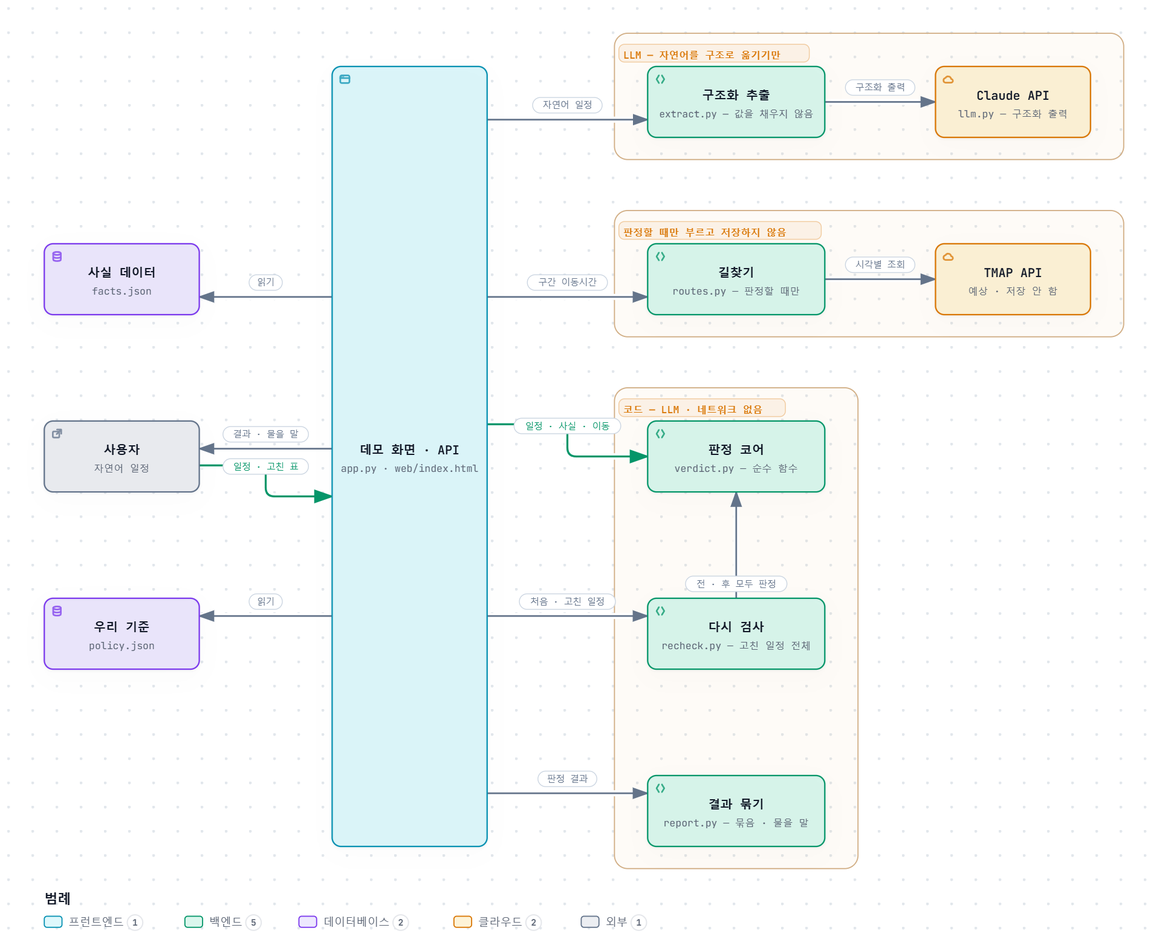
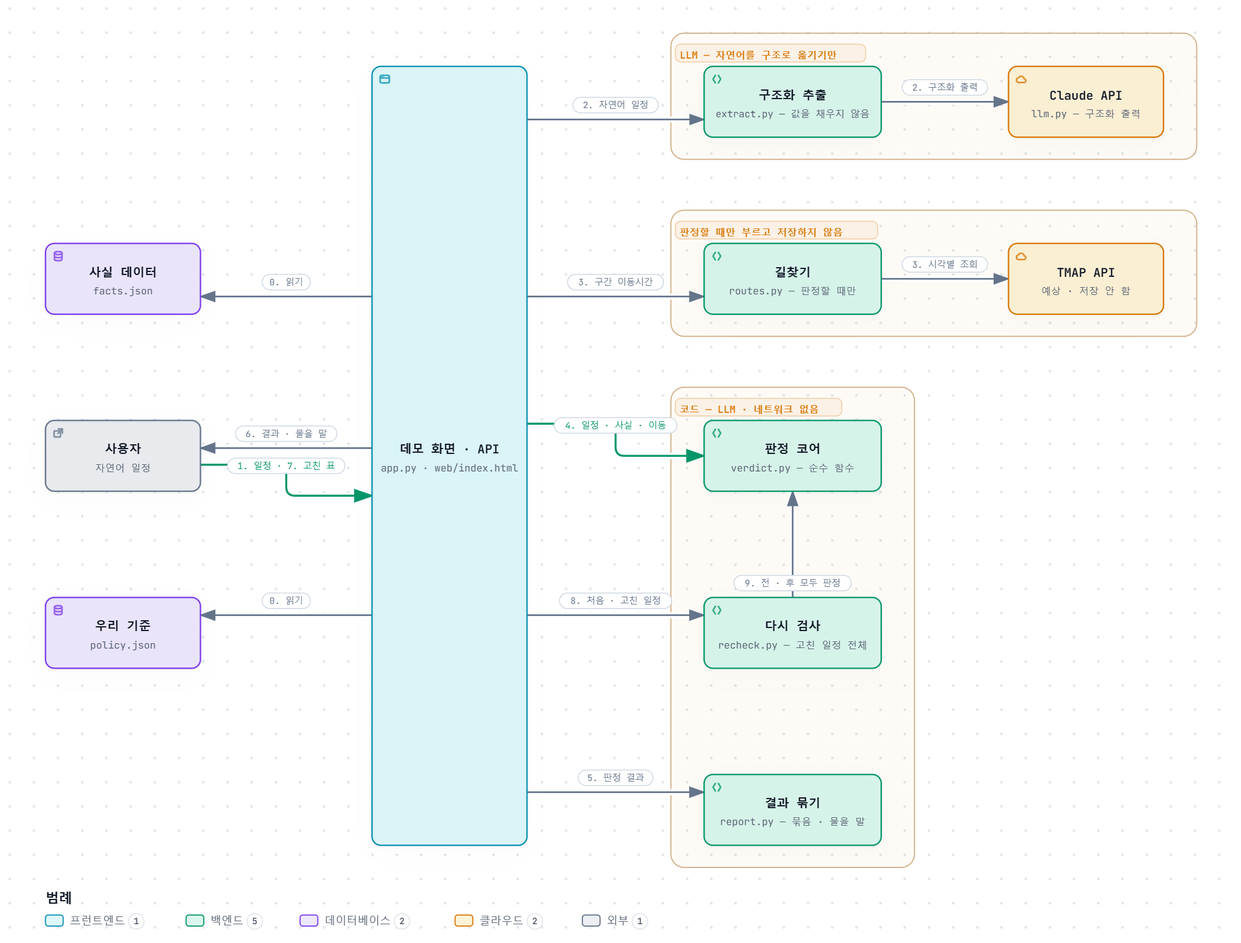
문서 — 구조 다이어그램의 선 이름에 순서 번호를 붙인다
사용자 질문(2026-10-23): "워크플로에 순서 번호는 안 되나?" — archify 아키텍처 다이어그램은 구조를 그리는
종류라 순서가 드러나지 않고, 번호를 자동으로 매기는 칸도 없다. 선 이름 앞에 번호를 붙였다.

- 0 서버를 켤 때 사실 데이터 · 우리 기준 읽기 / 처음 검사 1~6(일정 → 구조화 추출 → 이동시간 → 판정 →
  결과 묶기 → 결과와 물을 말) / 다시 검사 7~9(고친 표 → 처음 · 고친 일정 → 전 · 후 모두 판정).
  같은 단계 안의 선(구조화 추출 → Claude API, 길찾기 → TMAP)은 같은 번호
- 처음엔 ①② 같은 동그라미 숫자를 썼는데 다이어그램 글꼴에 그 글자가 없어 작은 대체 글자로 찍혔다.
  Edge 로 찍어 보고 보통 숫자("1.")로 바꿨다
- 번호가 붙어 길어진 선 이름이 들어가게 칸 사이를 넓혔다. archify 검사 통과
- 설명 카드에 '순서' 를 더했다. README 그림 아래에 번호 읽는 법 한 줄

diff --git a/docs/architecture.html b/docs/architecture.html
@@ -5202,7 +5202,7 @@ OTHER DEALINGS IN THE FONT SOFTWARE.
     <!-- Main Diagram -->
     <div class="diagram-container" data-detail-level="read"
          data-preset-badge-editorial-plate="ARCHIFY / 도판 04">
-      <svg viewBox="0 0 1055 852" role="img" lang="ko" aria-labelledby="archify-diagram-title archify-diagram-description" data-animation="trace" data-preset="classic" data-quality-profile="showcase" data-node-ui="" data-reader-fit="intrinsic-height" data-reader-min-text="7.5" data-reader-primary-text="14">
+      <svg viewBox="0 0 1120 852" role="img" lang="ko" aria-labelledby="archify-diagram-title archify-diagram-description" data-animation="trace" data-preset="classic" data-quality-profile="showcase" data-node-ui="" data-reader-fit="intrinsic-height" data-reader-min-text="7.5" data-reader-primary-text="14">
         <title id="archify-diagram-title">itinerary-verifier 전체 구조</title>
         <desc id="archify-diagram-description">Archify로 생성한 아키텍처 다이어그램입니다.</desc>
         <!-- Definitions -->
@@ -5249,60 +5249,60 @@ OTHER DEALINGS IN THE FONT SOFTWARE.
         <rect width="100%" height="100%" fill="url(#grid)" />
 
         <!-- Boundaries (behind everything) -->
-        <rect data-graph-role="structural-frame" data-composition-frame-kind="region" data-composition-frame-id="0" data-composition-frame-label="LLM — 자연어를 구조로 옮기기만" x="555" y="30" width="460" height="114" rx="12" class="c-region" stroke-width="1"/>
+        <rect data-graph-role="structural-frame" data-composition-frame-kind="region" data-composition-frame-id="0" data-composition-frame-label="LLM — 자연어를 구조로 옮기기만" x="605" y="30" width="475" height="114" rx="12" class="c-region" stroke-width="1"/>
 
-        <rect data-graph-role="structural-frame" data-composition-frame-kind="region" data-composition-frame-id="1" data-composition-frame-label="판정할 때만 부르고 저장하지 않음" x="555" y="190" width="460" height="114" rx="12" class="c-region" stroke-width="1"/>
+        <rect data-graph-role="structural-frame" data-composition-frame-kind="region" data-composition-frame-id="1" data-composition-frame-label="판정할 때만 부르고 저장하지 않음" x="605" y="190" width="475" height="114" rx="12" class="c-region" stroke-width="1"/>
 
-        <rect data-graph-role="structural-frame" data-composition-frame-kind="region" data-composition-frame-id="2" data-composition-frame-label="코드 — LLM · 네트워크 없음" x="555" y="350" width="220" height="434" rx="12" class="c-region" stroke-width="1"/>
+        <rect data-graph-role="structural-frame" data-composition-frame-kind="region" data-composition-frame-id="2" data-composition-frame-label="코드 — LLM · 네트워크 없음" x="605" y="350" width="220" height="434" rx="12" class="c-region" stroke-width="1"/>
 
         <!-- Connection paths (before components for correct z-order) -->
         <g data-graph-role="automatic-crossover" style="--step:0">
-          <path data-graph-role="automatic-crossover-underlay" d="M 180 420.05 L 232 420.05 Q 240 420.05 240 428.05 L 240 440.05 Q 240 448.05 248 448.05 L 300 448.05" fill="none" stroke="var(--mask)" stroke-width="5.8" stroke-linecap="round" stroke-linejoin="round" pointer-events="none"/>
-          <path data-edge-from="user" data-edge-to="app" data-edge-label="일정 · 고친 표" data-edge-key="0" data-edge-id="user-to-app" data-composition-points="180,420.05;240,420.05;240,448.05;300,448.05" data-composition-crossover="halo" data-composition-independent="true" d="M 180 420.05 L 232 420.05 Q 240 420.05 240 428.05 L 240 440.05 Q 240 448.05 248 448.05 L 300 448.05" class="a-emphasis" data-animate="edge" style="--step:0" stroke-width="1.8" marker-end="url(#arrowhead-emphasis)"/>
+          <path data-graph-role="automatic-crossover-underlay" d="M 180 420.05 L 249.5 420.05 Q 257.5 420.05 257.5 428.05 L 257.5 440.05 Q 257.5 448.05 265.5 448.05 L 335 448.05" fill="none" stroke="var(--mask)" stroke-width="5.8" stroke-linecap="round" stroke-linejoin="round" pointer-events="none"/>
+          <path data-edge-from="user" data-edge-to="app" data-edge-label="1. 일정 · 7. 고친 표" data-edge-key="0" data-edge-id="user-to-app" data-composition-points="180,420.05;257.5,420.05;257.5,448.05;335,448.05" data-composition-crossover="halo" data-composition-independent="true" d="M 180 420.05 L 249.5 420.05 Q 257.5 420.05 257.5 428.05 L 257.5 440.05 Q 257.5 448.05 265.5 448.05 L 335 448.05" class="a-emphasis" data-animate="edge" style="--step:0" stroke-width="1.8" marker-end="url(#arrowhead-emphasis)"/>
         </g>
         <g data-graph-role="automatic-crossover" style="--step:1">
-          <path data-graph-role="automatic-crossover-underlay" d="M 300 405 L 180 405" fill="none" stroke="var(--mask)" stroke-width="5.5" stroke-linecap="round" stroke-linejoin="round" pointer-events="none"/>
-          <path data-edge-from="app" data-edge-to="user" data-edge-label="결과 · 물을 말" data-edge-key="1" data-edge-id="app-to-user" data-composition-points="300,405;180,405" data-composition-crossover="halo" data-composition-independent="true" d="M 300 405 L 180 405" class="a-default" data-animate="edge" style="--step:1" stroke-width="1.5" marker-end="url(#arrowhead)"/>
+          <path data-graph-role="automatic-crossover-underlay" d="M 335 405 L 180 405" fill="none" stroke="var(--mask)" stroke-width="5.5" stroke-linecap="round" stroke-linejoin="round" pointer-events="none"/>
+          <path data-edge-from="app" data-edge-to="user" data-edge-label="6. 결과 · 물을 말" data-edge-key="1" data-edge-id="app-to-user" data-composition-points="335,405;180,405" data-composition-crossover="halo" data-composition-independent="true" d="M 335 405 L 180 405" class="a-default" data-animate="edge" style="--step:1" stroke-width="1.5" marker-end="url(#arrowhead)"/>
         </g>
         <g data-graph-role="automatic-crossover" style="--step:2">
-          <path data-graph-role="automatic-crossover-underlay" d="M 300 268 L 180 268" fill="none" stroke="var(--mask)" stroke-width="5.5" stroke-linecap="round" stroke-linejoin="round" pointer-events="none"/>
-          <path data-edge-from="app" data-edge-to="facts" data-edge-label="읽기" data-edge-key="2" data-edge-id="app-reads-facts" data-composition-points="300,268;180,268" data-composition-crossover="halo" data-composition-independent="true" d="M 300 268 L 180 268" class="a-default" data-animate="edge" style="--step:2" stroke-width="1.5" marker-end="url(#arrowhead)"/>
+          <path data-graph-role="automatic-crossover-underlay" d="M 335 268 L 180 268" fill="none" stroke="var(--mask)" stroke-width="5.5" stroke-linecap="round" stroke-linejoin="round" pointer-events="none"/>
+          <path data-edge-from="app" data-edge-to="facts" data-edge-label="0. 읽기" data-edge-key="2" data-edge-id="app-reads-facts" data-composition-points="335,268;180,268" data-composition-crossover="halo" data-composition-independent="true" d="M 335 268 L 180 268" class="a-default" data-animate="edge" style="--step:2" stroke-width="1.5" marker-end="url(#arrowhead)"/>
         </g>
         <g data-graph-role="automatic-crossover" style="--step:3">
-          <path data-graph-role="automatic-crossover-underlay" d="M 300 556 L 180 556" fill="none" stroke="var(--mask)" stroke-width="5.5" stroke-linecap="round" stroke-linejoin="round" pointer-events="none"/>
-          <path data-edge-from="app" data-edge-to="policy" data-edge-label="읽기" data-edge-key="3" data-edge-id="app-reads-policy" data-composition-points="300,556;180,556" data-composition-crossover="halo" data-composition-independent="true" d="M 300 556 L 180 556" class="a-default" data-animate="edge" style="--step:3" stroke-width="1.5" marker-end="url(#arrowhead)"/>
+          <path data-graph-role="automatic-crossover-underlay" d="M 335 556 L 180 556" fill="none" stroke="var(--mask)" stroke-width="5.5" stroke-linecap="round" stroke-linejoin="round" pointer-events="none"/>
+          <path data-edge-from="app" data-edge-to="policy" data-edge-label="0. 읽기" data-edge-key="3" data-edge-id="app-reads-policy" data-composition-points="335,556;180,556" data-composition-crossover="halo" data-composition-independent="true" d="M 335 556 L 180 556" class="a-default" data-animate="edge" style="--step:3" stroke-width="1.5" marker-end="url(#arrowhead)"/>
         </g>
         <g data-graph-role="automatic-crossover" style="--step:4">
-          <path data-graph-role="automatic-crossover-underlay" d="M 440 108 L 585 108" fill="none" stroke="var(--mask)" stroke-width="5.5" stroke-linecap="round" stroke-linejoin="round" pointer-events="none"/>
-          <path data-edge-from="app" data-edge-to="extract" data-edge-label="자연어 일정" data-edge-key="4" data-edge-id="app-to-extract" data-composition-points="440,108;585,108" data-composition-crossover="halo" data-composition-independent="true" d="M 440 108 L 585 108" class="a-default" data-animate="edge" style="--step:4" stroke-width="1.5" marker-end="url(#arrowhead)"/>
+          <path data-graph-role="automatic-crossover-underlay" d="M 475 108 L 635 108" fill="none" stroke="var(--mask)" stroke-width="5.5" stroke-linecap="round" stroke-linejoin="round" pointer-events="none"/>
+          <path data-edge-from="app" data-edge-to="extract" data-edge-label="2. 자연어 일정" data-edge-key="4" data-edge-id="app-to-extract" data-composition-points="475,108;635,108" data-composition-crossover="halo" data-composition-independent="true" d="M 475 108 L 635 108" class="a-default" data-animate="edge" style="--step:4" stroke-width="1.5" marker-end="url(#arrowhead)"/>
         </g>
         <g data-graph-role="automatic-crossover" style="--step:5">
-          <path data-graph-role="automatic-crossover-underlay" d="M 745 92 L 845 92" fill="none" stroke="var(--mask)" stroke-width="5.5" stroke-linecap="round" stroke-linejoin="round" pointer-events="none"/>
-          <path data-edge-from="extract" data-edge-to="claude" data-edge-label="구조화 출력" data-edge-key="5" data-edge-id="extract-to-claude" data-composition-points="745,92;845,92" data-composition-crossover="halo" data-composition-independent="true" d="M 745 92 L 845 92" class="a-default" data-animate="edge" style="--step:5" stroke-width="1.5" marker-end="url(#arrowhead)"/>
+          <path data-graph-role="automatic-crossover-underlay" d="M 795 92 L 910 92" fill="none" stroke="var(--mask)" stroke-width="5.5" stroke-linecap="round" stroke-linejoin="round" pointer-events="none"/>
+          <path data-edge-from="extract" data-edge-to="claude" data-edge-label="2. 구조화 출력" data-edge-key="5" data-edge-id="extract-to-claude" data-composition-points="795,92;910,92" data-composition-crossover="halo" data-composition-independent="true" d="M 795 92 L 910 92" class="a-default" data-animate="edge" style="--step:5" stroke-width="1.5" marker-end="url(#arrowhead)"/>
         </g>
         <g data-graph-role="automatic-crossover" style="--step:6">
-          <path data-graph-role="automatic-crossover-underlay" d="M 440 268 L 585 268" fill="none" stroke="var(--mask)" stroke-width="5.5" stroke-linecap="round" stroke-linejoin="round" pointer-events="none"/>
-          <path data-edge-from="app" data-edge-to="routes" data-edge-label="구간 이동시간" data-edge-key="6" data-edge-id="app-to-routes" data-composition-points="440,268;585,268" data-composition-crossover="halo" data-composition-independent="true" d="M 440 268 L 585 268" class="a-default" data-animate="edge" style="--step:6" stroke-width="1.5" marker-end="url(#arrowhead)"/>
+          <path data-graph-role="automatic-crossover-underlay" d="M 475 268 L 635 268" fill="none" stroke="var(--mask)" stroke-width="5.5" stroke-linecap="round" stroke-linejoin="round" pointer-events="none"/>
+          <path data-edge-from="app" data-edge-to="routes" data-edge-label="3. 구간 이동시간" data-edge-key="6" data-edge-id="app-to-routes" data-composition-points="475,268;635,268" data-composition-crossover="halo" data-composition-independent="true" d="M 475 268 L 635 268" class="a-default" data-animate="edge" style="--step:6" stroke-width="1.5" marker-end="url(#arrowhead)"/>
         </g>
         <g data-graph-role="automatic-crossover" style="--step:7">
-          <path data-graph-role="automatic-crossover-underlay" d="M 745 252 L 845 252" fill="none" stroke="var(--mask)" stroke-width="5.5" stroke-linecap="round" stroke-linejoin="round" pointer-events="none"/>
-          <path data-edge-from="routes" data-edge-to="tmap" data-edge-label="시각별 조회" data-edge-key="7" data-edge-id="routes-to-tmap" data-composition-points="745,252;845,252" data-composition-crossover="halo" data-composition-independent="true" d="M 745 252 L 845 252" class="a-default" data-animate="edge" style="--step:7" stroke-width="1.5" marker-end="url(#arrowhead)"/>
+          <path data-graph-role="automatic-crossover-underlay" d="M 795 252 L 910 252" fill="none" stroke="var(--mask)" stroke-width="5.5" stroke-linecap="round" stroke-linejoin="round" pointer-events="none"/>
+          <path data-edge-from="routes" data-edge-to="tmap" data-edge-label="3. 시각별 조회" data-edge-key="7" data-edge-id="routes-to-tmap" data-composition-points="795,252;910,252" data-composition-crossover="halo" data-composition-independent="true" d="M 795 252 L 910 252" class="a-default" data-animate="edge" style="--step:7" stroke-width="1.5" marker-end="url(#arrowhead)"/>
         </g>
         <g data-graph-role="automatic-crossover" style="--step:8">
-          <path data-graph-role="automatic-crossover-underlay" d="M 440 382.95 L 504.5 382.95 Q 512.5 382.95 512.5 390.95 L 512.5 404 Q 512.5 412 520.5 412 L 585 412" fill="none" stroke="var(--mask)" stroke-width="5.8" stroke-linecap="round" stroke-linejoin="round" pointer-events="none"/>
-          <path data-edge-from="app" data-edge-to="verdict" data-edge-label="일정 · 사실 · 이동" data-edge-key="8" data-edge-id="app-to-verdict" data-composition-points="440,382.95;512.5,382.95;512.5,412;585,412" data-composition-crossover="halo" data-composition-independent="true" d="M 440 382.95 L 504.5 382.95 Q 512.5 382.95 512.5 390.95 L 512.5 404 Q 512.5 412 520.5 412 L 585 412" class="a-emphasis" data-animate="edge" style="--step:8" stroke-width="1.8" marker-end="url(#arrowhead-emphasis)"/>
+          <path data-graph-role="automatic-crossover-underlay" d="M 475 382.95 L 547 382.95 Q 555 382.95 555 390.95 L 555 404 Q 555 412 563 412 L 635 412" fill="none" stroke="var(--mask)" stroke-width="5.8" stroke-linecap="round" stroke-linejoin="round" pointer-events="none"/>
+          <path data-edge-from="app" data-edge-to="verdict" data-edge-label="4. 일정 · 사실 · 이동" data-edge-key="8" data-edge-id="app-to-verdict" data-composition-points="475,382.95;555,382.95;555,412;635,412" data-composition-crossover="halo" data-composition-independent="true" d="M 475 382.95 L 547 382.95 Q 555 382.95 555 390.95 L 555 404 Q 555 412 563 412 L 635 412" class="a-emphasis" data-animate="edge" style="--step:8" stroke-width="1.8" marker-end="url(#arrowhead-emphasis)"/>
         </g>
         <g data-graph-role="automatic-crossover" style="--step:9">
-          <path data-graph-role="automatic-crossover-underlay" d="M 440 556 L 585 556" fill="none" stroke="var(--mask)" stroke-width="5.5" stroke-linecap="round" stroke-linejoin="round" pointer-events="none"/>
-          <path data-edge-from="app" data-edge-to="recheck" data-edge-label="처음 · 고친 일정" data-edge-key="9" data-edge-id="app-to-recheck" data-composition-points="440,556;585,556" data-composition-crossover="halo" data-composition-independent="true" d="M 440 556 L 585 556" class="a-default" data-animate="edge" style="--step:9" stroke-width="1.5" marker-end="url(#arrowhead)"/>
+          <path data-graph-role="automatic-crossover-underlay" d="M 475 556 L 635 556" fill="none" stroke="var(--mask)" stroke-width="5.5" stroke-linecap="round" stroke-linejoin="round" pointer-events="none"/>
+          <path data-edge-from="app" data-edge-to="recheck" data-edge-label="8. 처음 · 고친 일정" data-edge-key="9" data-edge-id="app-to-recheck" data-composition-points="475,556;635,556" data-composition-crossover="halo" data-composition-independent="true" d="M 475 556 L 635 556" class="a-default" data-animate="edge" style="--step:9" stroke-width="1.5" marker-end="url(#arrowhead)"/>
         </g>
         <g data-graph-role="automatic-crossover" style="--step:10">
-          <path data-graph-role="automatic-crossover-underlay" d="M 665 540 L 665 444" fill="none" stroke="var(--mask)" stroke-width="5.5" stroke-linecap="round" stroke-linejoin="round" pointer-events="none"/>
-          <path data-edge-from="recheck" data-edge-to="verdict" data-edge-label="전 · 후 모두 판정" data-edge-key="10" data-edge-id="recheck-to-verdict" data-composition-points="665,540;665,444" data-composition-crossover="halo" data-composition-independent="true" d="M 665 540 L 665 444" class="a-default" data-animate="edge" style="--step:10" stroke-width="1.5" marker-end="url(#arrowhead)"/>
+          <path data-graph-role="automatic-crossover-underlay" d="M 715 540 L 715 444" fill="none" stroke="var(--mask)" stroke-width="5.5" stroke-linecap="round" stroke-linejoin="round" pointer-events="none"/>
+          <path data-edge-from="recheck" data-edge-to="verdict" data-edge-label="9. 전 · 후 모두 판정" data-edge-key="10" data-edge-id="recheck-to-verdict" data-composition-points="715,540;715,444" data-composition-crossover="halo" data-composition-independent="true" d="M 715 540 L 715 444" class="a-default" data-animate="edge" style="--step:10" stroke-width="1.5" marker-end="url(#arrowhead)"/>
         </g>
         <g data-graph-role="automatic-crossover" style="--step:11">
-          <path data-graph-role="automatic-crossover-underlay" d="M 440 716 L 585 716" fill="none" stroke="var(--mask)" stroke-width="5.5" stroke-linecap="round" stroke-linejoin="round" pointer-events="none"/>
-          <path data-edge-from="app" data-edge-to="report" data-edge-label="판정 결과" data-edge-key="11" data-edge-id="app-to-report" data-composition-points="440,716;585,716" data-composition-crossover="halo" data-composition-independent="true" d="M 440 716 L 585 716" class="a-default" data-animate="edge" style="--step:11" stroke-width="1.5" marker-end="url(#arrowhead)"/>
+          <path data-graph-role="automatic-crossover-underlay" d="M 475 716 L 635 716" fill="none" stroke="var(--mask)" stroke-width="5.5" stroke-linecap="round" stroke-linejoin="round" pointer-events="none"/>
+          <path data-edge-from="app" data-edge-to="report" data-edge-label="5. 판정 결과" data-edge-key="11" data-edge-id="app-to-report" data-composition-points="475,716;635,716" data-composition-crossover="halo" data-composition-independent="true" d="M 475 716 L 635 716" class="a-default" data-animate="edge" style="--step:11" stroke-width="1.5" marker-end="url(#arrowhead)"/>
         </g>
 
         <!-- Components -->
@@ -5346,160 +5346,160 @@ OTHER DEALINGS IN THE FONT SOFTWARE.
 
         <g id="node-app" data-node-id="app" data-node-label="데모 화면 · API" tabindex="0" role="button" aria-label="데모 화면 · API 포커스, app.py · web/index.html, 아키텍처 구성요소" aria-pressed="false" data-node-kind="frontend" data-node-sublabel="app.py · web/index.html" data-node-tag="FastAPI" data-node-context="아키텍처 구성요소">
           <title>데모 화면 · API · app.py · web/index.html · 아키텍처 구성요소 · FastAPI</title>
-          <rect x="300" y="60" width="140" height="704" rx="8" class="c-mask"/>
-          <rect x="300" y="60" width="140" height="704" rx="8" class="c-frontend" data-animate="node" style="--step:1" stroke-width="1.5"/>
-          <g aria-hidden="true" data-semantic-sigil="frontend" class="semantic-sigil s-frontend" transform="translate(306 66) scale(0.6875)">
+          <rect x="335" y="60" width="140" height="704" rx="8" class="c-mask"/>
+          <rect x="335" y="60" width="140" height="704" rx="8" class="c-frontend" data-animate="node" style="--step:1" stroke-width="1.5"/>
+          <g aria-hidden="true" data-semantic-sigil="frontend" class="semantic-sigil s-frontend" transform="translate(341 66) scale(0.6875)">
             <rect x="2" y="3" width="12" height="10" rx="2"/>
             <path d="M2 6.5h12"/>
             <circle cx="4.1" cy="4.8" r=".7" class="sigil-fill"/>
             <circle cx="6.3" cy="4.8" r=".7" class="sigil-fill"/>
           </g>
-          <text data-node-label="" data-detail-anchor="" x="370" y="410" class="t-primary" font-size="11" font-weight="600" text-anchor="middle">데모 화면 · API</text>
-        <text data-detail="context" x="370" y="426" class="t-muted" font-size="9" text-anchor="middle">app.py · web/index.html</text>
-        <text data-detail="fine" x="370" y="756" class="t-frontend" font-size="7" text-anchor="middle">FastAPI</text>
+          <text data-node-label="" data-detail-anchor="" x="405" y="410" class="t-primary" font-size="11" font-weight="600" text-anchor="middle">데모 화면 · API</text>
+        <text data-detail="context" x="405" y="426" class="t-muted" font-size="9" text-anchor="middle">app.py · web/index.html</text>
+        <text data-detail="fine" x="405" y="756" class="t-frontend" font-size="7" text-anchor="middle">FastAPI</text>
         </g>
 
         <g id="node-extract" data-node-id="extract" data-node-label="구조화 추출" tabindex="0" role="button" aria-label="구조화 추출 포커스, extract.py — 값을 채우지 않음, LLM — 자연어를 구조로 옮기기만" aria-pressed="false" data-node-kind="backend" data-node-sublabel="extract.py — 값을 채우지 않음" data-node-context="LLM — 자연어를 구조로 옮기기만">
           <title>구조화 추출 · extract.py — 값을 채우지 않음 · LLM — 자연어를 구조로 옮기기만</title>
-          <rect x="585" y="60" width="160" height="64" rx="8" class="c-mask"/>
-          <rect x="585" y="60" width="160" height="64" rx="8" class="c-backend" data-animate="node" style="--step:5" stroke-width="1.5"/>
-          <g aria-hidden="true" data-semantic-sigil="backend" class="semantic-sigil s-backend" transform="translate(591 66) scale(0.6875)">
+          <rect x="635" y="60" width="160" height="64" rx="8" class="c-mask"/>
+          <rect x="635" y="60" width="160" height="64" rx="8" class="c-backend" data-animate="node" style="--step:5" stroke-width="1.5"/>
+          <g aria-hidden="true" data-semantic-sigil="backend" class="semantic-sigil s-backend" transform="translate(641 66) scale(0.6875)">
             <path d="M6 3 3 8l3 5M10 3l3 5-3 5"/>
           </g>
-          <text data-node-label="" data-detail-anchor="" x="665" y="90" class="t-primary" font-size="11" font-weight="600" text-anchor="middle">구조화 추출</text>
-        <text data-detail="context" x="665" y="106" class="t-muted" font-size="8.7" text-anchor="middle">extract.py — 값을 채우지 않음</text>
+          <text data-node-label="" data-detail-anchor="" x="715" y="90" class="t-primary" font-size="11" font-weight="600" text-anchor="middle">구조화 추출</text>
+        <text data-detail="context" x="715" y="106" class="t-muted" font-size="8.7" text-anchor="middle">extract.py — 값을 채우지 않음</text>
         </g>
 
         <g id="node-claude" data-node-id="claude" data-node-label="Claude API" tabindex="0" role="button" aria-label="Claude API 포커스, llm.py — 구조화 출력, LLM — 자연어를 구조로 옮기기만" aria-pressed="false" data-node-kind="cloud" data-node-sublabel="llm.py — 구조화 출력" data-node-context="LLM — 자연어를 구조로 옮기기만">
           <title>Claude API · llm.py — 구조화 출력 · LLM — 자연어를 구조로 옮기기만</title>
-          <rect x="845" y="60" width="140" height="64" rx="8" class="c-mask"/>
-          <rect x="845" y="60" width="140" height="64" rx="8" class="c-cloud" data-animate="node" style="--step:6" stroke-width="1.5"/>
-          <g aria-hidden="true" data-semantic-sigil="cloud" class="semantic-sigil s-cloud" transform="translate(851 66) scale(0.6875)">
+          <rect x="910" y="60" width="140" height="64" rx="8" class="c-mask"/>
+          <rect x="910" y="60" width="140" height="64" rx="8" class="c-cloud" data-animate="node" style="--step:6" stroke-width="1.5"/>
+          <g aria-hidden="true" data-semantic-sigil="cloud" class="semantic-sigil s-cloud" transform="translate(916 66) scale(0.6875)">
             <path d="M4.3 12.5h7.3a2.4 2.4 0 0 0 .2-4.8 4 4 0 0 0-7.5-1.3A3.1 3.1 0 0 0 4.3 12.5Z"/>
           </g>
-          <text data-node-label="" data-detail-anchor="" x="915" y="90" class="t-primary" font-size="11" font-weight="600" text-anchor="middle">Claude API</text>
-        <text data-detail="context" x="915" y="106" class="t-muted" font-size="9" text-anchor="middle">llm.py — 구조화 출력</text>
+          <text data-node-label="" data-detail-anchor="" x="980" y="90" class="t-primary" font-size="11" font-weight="600" text-anchor="middle">Claude API</text>
+        <text data-detail="context" x="980" y="106" class="t-muted" font-size="9" text-anchor="middle">llm.py — 구조화 출력</text>
         </g>
 
         <g id="node-routes" data-node-id="routes" data-node-label="길찾기" tabindex="0" role="button" aria-label="길찾기 포커스, routes.py — 판정할 때만, 판정할 때만 부르고 저장하지 않음" aria-pressed="false" data-node-kind="backend" data-node-sublabel="routes.py — 판정할 때만" data-node-context="판정할 때만 부르고 저장하지 않음">
           <title>길찾기 · routes.py — 판정할 때만 · 판정할 때만 부르고 저장하지 않음</title>
-          <rect x="585" y="220" width="160" height="64" rx="8" class="c-mask"/>
-          <rect x="585" y="220" width="160" height="64" rx="8" class="c-backend" data-animate="node" style="--step:7" stroke-width="1.5"/>
-          <g aria-hidden="true" data-semantic-sigil="backend" class="semantic-sigil s-backend" transform="translate(591 226) scale(0.6875)">
+          <rect x="635" y="220" width="160" height="64" rx="8" class="c-mask"/>
+          <rect x="635" y="220" width="160" height="64" rx="8" class="c-backend" data-animate="node" style="--step:7" stroke-width="1.5"/>
+          <g aria-hidden="true" data-semantic-sigil="backend" class="semantic-sigil s-backend" transform="translate(641 226) scale(0.6875)">
             <path d="M6 3 3 8l3 5M10 3l3 5-3 5"/>
           </g>
-          <text data-node-label="" data-detail-anchor="" x="665" y="250" class="t-primary" font-size="11" font-weight="600" text-anchor="middle">길찾기</text>
-        <text data-detail="context" x="665" y="266" class="t-muted" font-size="9" text-anchor="middle">routes.py — 판정할 때만</text>
+          <text data-node-label="" data-detail-anchor="" x="715" y="250" class="t-primary" font-size="11" font-weight="600" text-anchor="middle">길찾기</text>
+        <text data-detail="context" x="715" y="266" class="t-muted" font-size="9" text-anchor="middle">routes.py — 판정할 때만</text>
         </g>
 
         <g id="node-tmap" data-node-id="tmap" data-node-label="TMAP API" tabindex="0" role="button" aria-label="TMAP API 포커스, 예상 · 저장 안 함, 판정할 때만 부르고 저장하지 않음" aria-pressed="false" data-node-kind="cloud" data-node-sublabel="예상 · 저장 안 함" data-node-context="판정할 때만 부르고 저장하지 않음">
           <title>TMAP API · 예상 · 저장 안 함 · 판정할 때만 부르고 저장하지 않음</title>
-          <rect x="845" y="220" width="140" height="64" rx="8" class="c-mask"/>
-          <rect x="845" y="220" width="140" height="64" rx="8" class="c-cloud" data-animate="node" style="--step:8" stroke-width="1.5"/>
-          <g aria-hidden="true" data-semantic-sigil="cloud" class="semantic-sigil s-cloud" transform="translate(851 226) scale(0.6875)">
+          <rect x="910" y="220" width="140" height="64" rx="8" class="c-mask"/>
+          <rect x="910" y="220" width="140" height="64" rx="8" class="c-cloud" data-animate="node" style="--step:8" stroke-width="1.5"/>
+          <g aria-hidden="true" data-semantic-sigil="cloud" class="semantic-sigil s-cloud" transform="translate(916 226) scale(0.6875)">
             <path d="M4.3 12.5h7.3a2.4 2.4 0 0 0 .2-4.8 4 4 0 0 0-7.5-1.3A3.1 3.1 0 0 0 4.3 12.5Z"/>
           </g>
-          <text data-node-label="" data-detail-anchor="" x="915" y="250" class="t-primary" font-size="11" font-weight="600" text-anchor="middle">TMAP API</text>
-        <text data-detail="context" x="915" y="266" class="t-muted" font-size="9" text-anchor="middle">예상 · 저장 안 함</text>
+          <text data-node-label="" data-detail-anchor="" x="980" y="250" class="t-primary" font-size="11" font-weight="600" text-anchor="middle">TMAP API</text>
+        <text data-detail="context" x="980" y="266" class="t-muted" font-size="9" text-anchor="middle">예상 · 저장 안 함</text>
         </g>
 
         <g id="node-verdict" data-node-id="verdict" data-node-label="판정 코어" tabindex="0" role="button" aria-label="판정 코어 포커스, verdict.py — 순수 함수, 코드 — LLM · 네트워크 없음" aria-pressed="false" data-node-kind="backend" data-node-sublabel="verdict.py — 순수 함수" data-node-context="코드 — LLM · 네트워크 없음">
           <title>판정 코어 · verdict.py — 순수 함수 · 코드 — LLM · 네트워크 없음</title>
-          <rect x="585" y="380" width="160" height="64" rx="8" class="c-mask"/>
-          <rect x="585" y="380" width="160" height="64" rx="8" class="c-backend" data-animate="node" style="--step:9" stroke-width="1.5"/>
-          <g aria-hidden="true" data-semantic-sigil="backend" class="semantic-sigil s-backend" transform="translate(591 386) scale(0.6875)">
+          <rect x="635" y="380" width="160" height="64" rx="8" class="c-mask"/>
+          <rect x="635" y="380" width="160" height="64" rx="8" class="c-backend" data-animate="node" style="--step:9" stroke-width="1.5"/>
+          <g aria-hidden="true" data-semantic-sigil="backend" class="semantic-sigil s-backend" transform="translate(641 386) scale(0.6875)">
             <path d="M6 3 3 8l3 5M10 3l3 5-3 5"/>
           </g>
-          <text data-node-label="" data-detail-anchor="" x="665" y="410" class="t-primary" font-size="11" font-weight="600" text-anchor="middle">판정 코어</text>
-        <text data-detail="context" x="665" y="426" class="t-muted" font-size="9" text-anchor="middle">verdict.py — 순수 함수</text>
+          <text data-node-label="" data-detail-anchor="" x="715" y="410" class="t-primary" font-size="11" font-weight="600" text-anchor="middle">판정 코어</text>
+        <text data-detail="context" x="715" y="426" class="t-muted" font-size="9" text-anchor="middle">verdict.py — 순수 함수</text>
         </g>
 
         <g id="node-recheck" data-node-id="recheck" data-node-label="다시 검사" tabindex="0" role="button" aria-label="다시 검사 포커스, recheck.py — 고친 일정 전체, 코드 — LLM · 네트워크 없음" aria-pressed="false" data-node-kind="backend" data-node-sublabel="recheck.py — 고친 일정 전체" data-node-context="코드 — LLM · 네트워크 없음">
           <title>다시 검사 · recheck.py — 고친 일정 전체 · 코드 — LLM · 네트워크 없음</title>
-          <rect x="585" y="540" width="160" height="64" rx="8" class="c-mask"/>
-          <rect x="585" y="540" width="160" height="64" rx="8" class="c-backend" data-animate="node" style="--step:10" stroke-width="1.5"/>
-          <g aria-hidden="true" data-semantic-sigil="backend" class="semantic-sigil s-backend" transform="translate(591 546) scale(0.6875)">
+          <rect x="635" y="540" width="160" height="64" rx="8" class="c-mask"/>
+          <rect x="635" y="540" width="160" height="64" rx="8" class="c-backend" data-animate="node" style="--step:10" stroke-width="1.5"/>
+          <g aria-hidden="true" data-semantic-sigil="backend" class="semantic-sigil s-backend" transform="translate(641 546) scale(0.6875)">
             <path d="M6 3 3 8l3 5M10 3l3 5-3 5"/>
           </g>
-          <text data-node-label="" data-detail-anchor="" x="665" y="570" class="t-primary" font-size="11" font-weight="600" text-anchor="middle">다시 검사</text>
-        <text data-detail="context" x="665" y="586" class="t-muted" font-size="9" text-anchor="middle">recheck.py — 고친 일정 전체</text>
+          <text data-node-label="" data-detail-anchor="" x="715" y="570" class="t-primary" font-size="11" font-weight="600" text-anchor="middle">다시 검사</text>
+        <text data-detail="context" x="715" y="586" class="t-muted" font-size="9" text-anchor="middle">recheck.py — 고친 일정 전체</text>
         </g>
 
         <g id="node-report" data-node-id="report" data-node-label="결과 묶기" tabindex="0" role="button" aria-label="결과 묶기 포커스, report.py — 묶음 · 물을 말, 코드 — LLM · 네트워크 없음" aria-pressed="false" data-node-kind="backend" data-node-sublabel="report.py — 묶음 · 물을 말" data-node-context="코드 — LLM · 네트워크 없음">
           <title>결과 묶기 · report.py — 묶음 · 물을 말 · 코드 — LLM · 네트워크 없음</title>
-          <rect x="585" y="700" width="160" height="64" rx="8" class="c-mask"/>
-          <rect x="585" y="700" width="160" height="64" rx="8" class="c-backend" data-animate="node" style="--step:12" stroke-width="1.5"/>
-          <g aria-hidden="true" data-semantic-sigil="backend" class="semantic-sigil s-backend" transform="translate(591 706) scale(0.6875)">
+          <rect x="635" y="700" width="160" height="64" rx="8" class="c-mask"/>
+          <rect x="635" y="700" width="160" height="64" rx="8" class="c-backend" data-animate="node" style="--step:12" stroke-width="1.5"/>
+          <g aria-hidden="true" data-semantic-sigil="backend" class="semantic-sigil s-backend" transform="translate(641 706) scale(0.6875)">
             <path d="M6 3 3 8l3 5M10 3l3 5-3 5"/>
           </g>
-          <text data-node-label="" data-detail-anchor="" x="665" y="730" class="t-primary" font-size="11" font-weight="600" text-anchor="middle">결과 묶기</text>
-        <text data-detail="context" x="665" y="746" class="t-muted" font-size="9" text-anchor="middle">report.py — 묶음 · 물을 말</text>
+          <text data-node-label="" data-detail-anchor="" x="715" y="730" class="t-primary" font-size="11" font-weight="600" text-anchor="middle">결과 묶기</text>
+        <text data-detail="context" x="715" y="746" class="t-muted" font-size="9" text-anchor="middle">report.py — 묶음 · 물을 말</text>
         </g>
 
         <!-- Connection labels -->
-        <g data-detail="context" data-edge-from="user" data-edge-to="app" data-edge-label="일정 · 고친 표" data-edge-key="0" data-edge-id="user-to-app">
-          <rect x="201.4" y="414.05" width="77.2" height="14" rx="3" class="c-mask"/>
-          <text x="240" y="424.05" class="t-edge-emphasis" font-size="8" text-anchor="middle">일정 · 고친 표</text>
+        <g data-detail="context" data-edge-from="user" data-edge-to="app" data-edge-label="1. 일정 · 7. 고친 표" data-edge-key="0" data-edge-id="user-to-app">
+          <rect x="204.5" y="414.05" width="106" height="14" rx="3" class="c-mask"/>
+          <text x="257.5" y="424.05" class="t-edge-emphasis" font-size="8" text-anchor="middle">1. 일정 · 7. 고친 표</text>
         </g>
-        <g data-detail="context" data-edge-from="app" data-edge-to="user" data-edge-label="결과 · 물을 말" data-edge-key="1" data-edge-id="app-to-user">
-          <rect x="201.4" y="385" width="77.2" height="14" rx="3" class="c-mask"/>
-          <text x="240" y="395" class="t-edge-default" font-size="8" text-anchor="middle">결과 · 물을 말</text>
+        <g data-detail="context" data-edge-from="app" data-edge-to="user" data-edge-label="6. 결과 · 물을 말" data-edge-key="1" data-edge-id="app-to-user">
+          <rect x="211.7" y="385" width="91.6" height="14" rx="3" class="c-mask"/>
+          <text x="257.5" y="395" class="t-edge-default" font-size="8" text-anchor="middle">6. 결과 · 물을 말</text>
         </g>
-        <g data-detail="context" data-edge-from="app" data-edge-to="facts" data-edge-label="읽기" data-edge-key="2" data-edge-id="app-reads-facts">
-          <rect x="225" y="248" width="30" height="14" rx="3" class="c-mask"/>
-          <text x="240" y="258" class="t-edge-default" font-size="8" text-anchor="middle">읽기</text>
+        <g data-detail="context" data-edge-from="app" data-edge-to="facts" data-edge-label="0. 읽기" data-edge-key="2" data-edge-id="app-reads-facts">
+          <rect x="235.7" y="248" width="43.6" height="14" rx="3" class="c-mask"/>
+          <text x="257.5" y="258" class="t-edge-default" font-size="8" text-anchor="middle">0. 읽기</text>
         </g>
-        <g data-detail="context" data-edge-from="app" data-edge-to="policy" data-edge-label="읽기" data-edge-key="3" data-edge-id="app-reads-policy">
-          <rect x="225" y="536" width="30" height="14" rx="3" class="c-mask"/>
-          <text x="240" y="546" class="t-edge-default" font-size="8" text-anchor="middle">읽기</text>
+        <g data-detail="context" data-edge-from="app" data-edge-to="policy" data-edge-label="0. 읽기" data-edge-key="3" data-edge-id="app-reads-policy">
+          <rect x="235.7" y="536" width="43.6" height="14" rx="3" class="c-mask"/>
+          <text x="257.5" y="546" class="t-edge-default" font-size="8" text-anchor="middle">0. 읽기</text>
         </g>
-        <g data-detail="context" data-edge-from="app" data-edge-to="extract" data-edge-label="자연어 일정" data-edge-key="4" data-edge-id="app-to-extract">
-          <rect x="481.1" y="88" width="62.8" height="14" rx="3" class="c-mask"/>
-          <text x="512.5" y="98" class="t-edge-default" font-size="8" text-anchor="middle">자연어 일정</text>
+        <g data-detail="context" data-edge-from="app" data-edge-to="extract" data-edge-label="2. 자연어 일정" data-edge-key="4" data-edge-id="app-to-extract">
+          <rect x="516.4" y="88" width="77.2" height="14" rx="3" class="c-mask"/>
+          <text x="555" y="98" class="t-edge-default" font-size="8" text-anchor="middle">2. 자연어 일정</text>
         </g>
-        <g data-detail="context" data-edge-from="extract" data-edge-to="claude" data-edge-label="구조화 출력" data-edge-key="5" data-edge-id="extract-to-claude">
-          <rect x="763.6" y="72" width="62.8" height="14" rx="3" class="c-mask"/>
-          <text x="795" y="82" class="t-edge-default" font-size="8" text-anchor="middle">구조화 출력</text>
+        <g data-detail="context" data-edge-from="extract" data-edge-to="claude" data-edge-label="2. 구조화 출력" data-edge-key="5" data-edge-id="extract-to-claude">
+          <rect x="813.9" y="72" width="77.2" height="14" rx="3" class="c-mask"/>
+          <text x="852.5" y="82" class="t-edge-default" font-size="8" text-anchor="middle">2. 구조화 출력</text>
         </g>
-        <g data-detail="context" data-edge-from="app" data-edge-to="routes" data-edge-label="구간 이동시간" data-edge-key="6" data-edge-id="app-to-routes">
-          <rect x="476.3" y="248" width="72.4" height="14" rx="3" class="c-mask"/>
-          <text x="512.5" y="258" class="t-edge-default" font-size="8" text-anchor="middle">구간 이동시간</text>
+        <g data-detail="context" data-edge-from="app" data-edge-to="routes" data-edge-label="3. 구간 이동시간" data-edge-key="6" data-edge-id="app-to-routes">
+          <rect x="511.6" y="248" width="86.8" height="14" rx="3" class="c-mask"/>
+          <text x="555" y="258" class="t-edge-default" font-size="8" text-anchor="middle">3. 구간 이동시간</text>
         </g>
-        <g data-detail="context" data-edge-from="routes" data-edge-to="tmap" data-edge-label="시각별 조회" data-edge-key="7" data-edge-id="routes-to-tmap">
-          <rect x="763.6" y="232" width="62.8" height="14" rx="3" class="c-mask"/>
-          <text x="795" y="242" class="t-edge-default" font-size="8" text-anchor="middle">시각별 조회</text>
+        <g data-detail="context" data-edge-from="routes" data-edge-to="tmap" data-edge-label="3. 시각별 조회" data-edge-key="7" data-edge-id="routes-to-tmap">
+          <rect x="813.9" y="232" width="77.2" height="14" rx="3" class="c-mask"/>
+          <text x="852.5" y="242" class="t-edge-default" font-size="8" text-anchor="middle">3. 시각별 조회</text>
         </g>
-        <g data-detail="context" data-edge-from="app" data-edge-to="verdict" data-edge-label="일정 · 사실 · 이동" data-edge-key="8" data-edge-id="app-to-verdict">
-          <rect x="464.3" y="377.475" width="96.39999999999999" height="14" rx="3" class="c-mask"/>
-          <text x="512.5" y="387.475" class="t-edge-emphasis" font-size="8" text-anchor="middle">일정 · 사실 · 이동</text>
+        <g data-detail="context" data-edge-from="app" data-edge-to="verdict" data-edge-label="4. 일정 · 사실 · 이동" data-edge-key="8" data-edge-id="app-to-verdict">
+          <rect x="499.6" y="377.475" width="110.8" height="14" rx="3" class="c-mask"/>
+          <text x="555" y="387.475" class="t-edge-emphasis" font-size="8" text-anchor="middle">4. 일정 · 사실 · 이동</text>
         </g>
-        <g data-detail="context" data-edge-from="app" data-edge-to="recheck" data-edge-label="처음 · 고친 일정" data-edge-key="9" data-edge-id="app-to-recheck">
-          <rect x="469.1" y="536" width="86.8" height="14" rx="3" class="c-mask"/>
-          <text x="512.5" y="546" class="t-edge-default" font-size="8" text-anchor="middle">처음 · 고친 일정</text>
+        <g data-detail="context" data-edge-from="app" data-edge-to="recheck" data-edge-label="8. 처음 · 고친 일정" data-edge-key="9" data-edge-id="app-to-recheck">
+          <rect x="504.4" y="536" width="101.2" height="14" rx="3" class="c-mask"/>
+          <text x="555" y="546" class="t-edge-default" font-size="8" text-anchor="middle">8. 처음 · 고친 일정</text>
         </g>
-        <g data-detail="context" data-edge-from="recheck" data-edge-to="verdict" data-edge-label="전 · 후 모두 판정" data-edge-key="10" data-edge-id="recheck-to-verdict">
-          <rect x="619.2" y="520" width="91.6" height="14" rx="3" class="c-mask"/>
-          <text x="665" y="530" class="t-edge-default" font-size="8" text-anchor="middle">전 · 후 모두 판정</text>
+        <g data-detail="context" data-edge-from="recheck" data-edge-to="verdict" data-edge-label="9. 전 · 후 모두 판정" data-edge-key="10" data-edge-id="recheck-to-verdict">
+          <rect x="662" y="520" width="106" height="14" rx="3" class="c-mask"/>
+          <text x="715" y="530" class="t-edge-default" font-size="8" text-anchor="middle">9. 전 · 후 모두 판정</text>
         </g>
-        <g data-detail="context" data-edge-from="app" data-edge-to="report" data-edge-label="판정 결과" data-edge-key="11" data-edge-id="app-to-report">
-          <rect x="485.9" y="696" width="53.199999999999996" height="14" rx="3" class="c-mask"/>
-          <text x="512.5" y="706" class="t-edge-default" font-size="8" text-anchor="middle">판정 결과</text>
+        <g data-detail="context" data-edge-from="app" data-edge-to="report" data-edge-label="5. 판정 결과" data-edge-key="11" data-edge-id="app-to-report">
+          <rect x="521.2" y="696" width="67.6" height="14" rx="3" class="c-mask"/>
+          <text x="555" y="706" class="t-edge-default" font-size="8" text-anchor="middle">5. 판정 결과</text>
         </g>
 
         <!-- Boundary labels (foreground masks keep routes out of titles) -->
         <g data-graph-role="structural-frame-label" data-composition-frame-id="0" data-composition-frame-kind="region" data-composition-frame-label="LLM — 자연어를 구조로 옮기기만">
-          <rect data-graph-role="structural-frame-label-mask" x="559" y="40" width="172" height="16" rx="3" class="c-mask"/>
-          <text data-boundary-label="" x="563" y="53" class="t-cloud" font-size="9" font-weight="600">LLM — 자연어를 구조로 옮기기만</text>
+          <rect data-graph-role="structural-frame-label-mask" x="609" y="40" width="172" height="16" rx="3" class="c-mask"/>
+          <text data-boundary-label="" x="613" y="53" class="t-cloud" font-size="9" font-weight="600">LLM — 자연어를 구조로 옮기기만</text>
         </g>
 
         <g data-graph-role="structural-frame-label" data-composition-frame-id="1" data-composition-frame-kind="region" data-composition-frame-label="판정할 때만 부르고 저장하지 않음">
-          <rect data-graph-role="structural-frame-label-mask" x="559" y="200" width="182.79999999999998" height="16" rx="3" class="c-mask"/>
-          <text data-boundary-label="" x="563" y="213" class="t-cloud" font-size="9" font-weight="600">판정할 때만 부르고 저장하지 않음</text>
+          <rect data-graph-role="structural-frame-label-mask" x="609" y="200" width="182.79999999999998" height="16" rx="3" class="c-mask"/>
+          <text data-boundary-label="" x="613" y="213" class="t-cloud" font-size="9" font-weight="600">판정할 때만 부르고 저장하지 않음</text>
         </g>
 
         <g data-graph-role="structural-frame-label" data-composition-frame-id="2" data-composition-frame-kind="region" data-composition-frame-label="코드 — LLM · 네트워크 없음">
-          <rect data-graph-role="structural-frame-label-mask" x="559" y="360" width="150.4" height="16" rx="3" class="c-mask"/>
-          <text data-boundary-label="" x="563" y="373" class="t-cloud" font-size="9" font-weight="600">코드 — LLM · 네트워크 없음</text>
+          <rect data-graph-role="structural-frame-label-mask" x="609" y="360" width="150.4" height="16" rx="3" class="c-mask"/>
+          <text data-boundary-label="" x="613" y="373" class="t-cloud" font-size="9" font-weight="600">코드 — LLM · 네트워크 없음</text>
         </g>
 
         <!-- Legend -->
@@ -5705,6 +5705,18 @@ OTHER DEALINGS IN THE FONT SOFTWARE.
     <div class="cards">
       <div class="card">
         <div class="card-header">
+          <div class="card-dot cyan"></div>
+          <h3>순서</h3>
+        </div>
+        <ul>
+          <li>0. 서버를 켤 때 사실 데이터와 우리 기준을 한 번 읽는다</li>
+          <li>처음 검사 1~6 — 일정 → 구조화 추출 → 이동시간 → 판정 → 결과 묶기 → 결과와 물을 말</li>
+          <li>다시 검사 7~9 — 고친 표 → 처음 · 고친 일정 → 전 · 후 모두 판정. 이동시간은 3, 결과는 5 · 6과 같다</li>
+        </ul>
+      </div>
+
+      <div class="card">
+        <div class="card-header">
           <div class="card-dot violet"></div>
           <h3>LLM과 코드의 경계</h3>
         </div>
@@ -5724,7 +5736,6 @@ OTHER DEALINGS IN THE FONT SOFTWARE.
           <li>사실 — facts.json, 공식 페이지에서 옮기고 확인한 날 · 적용 기간을 붙인다</li>
           <li>우리 기준 — policy.json, 권장 여유 · 기본 체류. 사실이 아니라 설정이다</li>
           <li>사용자 입력 — 일정의 말한 값 · 추정한 값 · 없는 값</li>
-          <li>facts.json · policy.json 은 서버가 켜질 때 한 번 읽는다</li>
         </ul>
       </div>
 

diff --git a/README.md b/README.md
@@ -99,6 +99,7 @@
 
 ![전체 구조 — 데모 화면 · API가 구조화 추출(LLM) · 길찾기(TMAP) · 판정 코어 · 다시 검사 · 결과 묶기를 부른다](docs/images/architecture.png)
 
+선 이름의 숫자는 순서다 — 처음 검사가 1\~6, 표에서 고쳐 다시 검사하면 7\~9, 0은 서버를 켤 때 한 번 읽는 것이다.
 LLM은 구조화 추출 한 칸에만 있고, 판정 코어 · 다시 검사 · 결과 묶기는 LLM과 네트워크 없이 돈다. 길찾기는 판정할 때만
 TMAP을 부르고 저장하지 않는다. 상자를 누르면 근거 코드 줄로 가는 대화형 버전은 [`docs/architecture.html`](docs/architecture.html)이다
 (내려받아 브라우저로 연다. [archify](https://github.com/tt-a1i/archify)로 만들었다).
